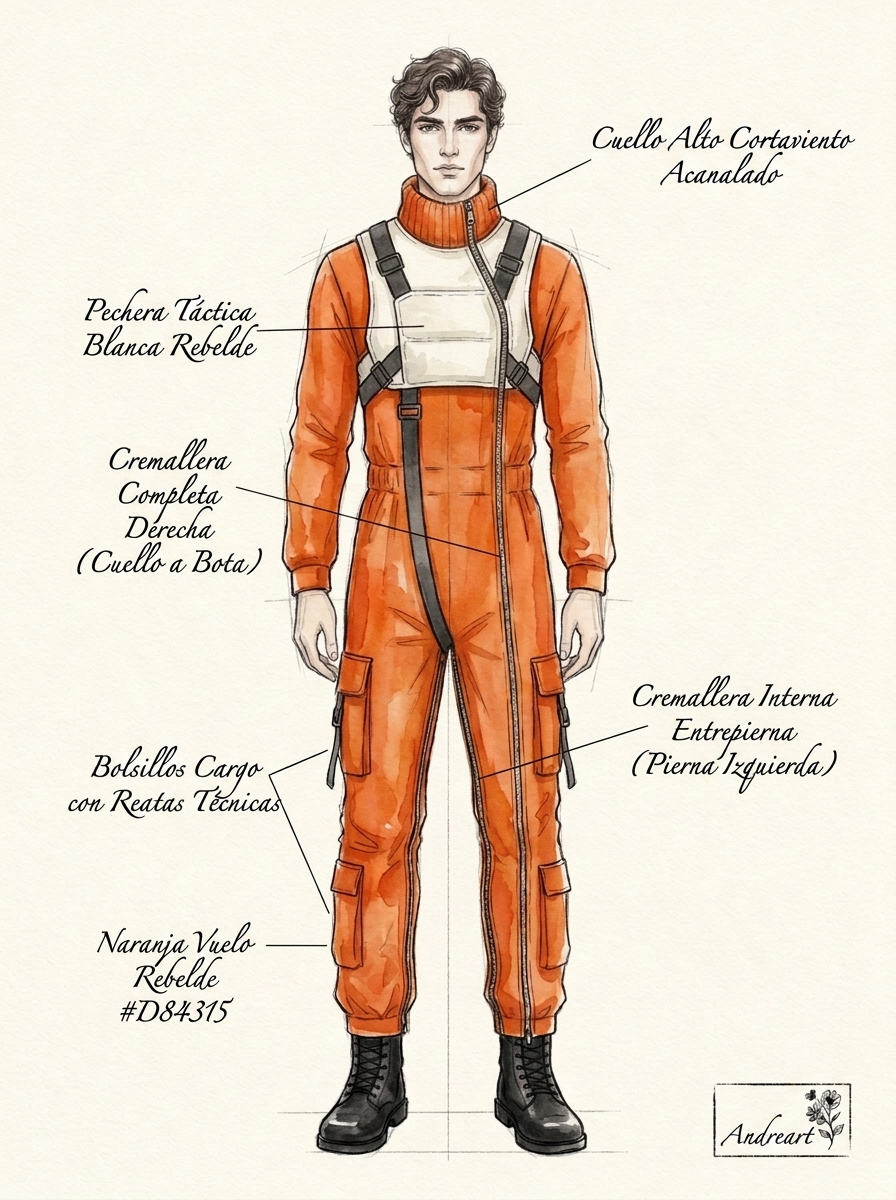
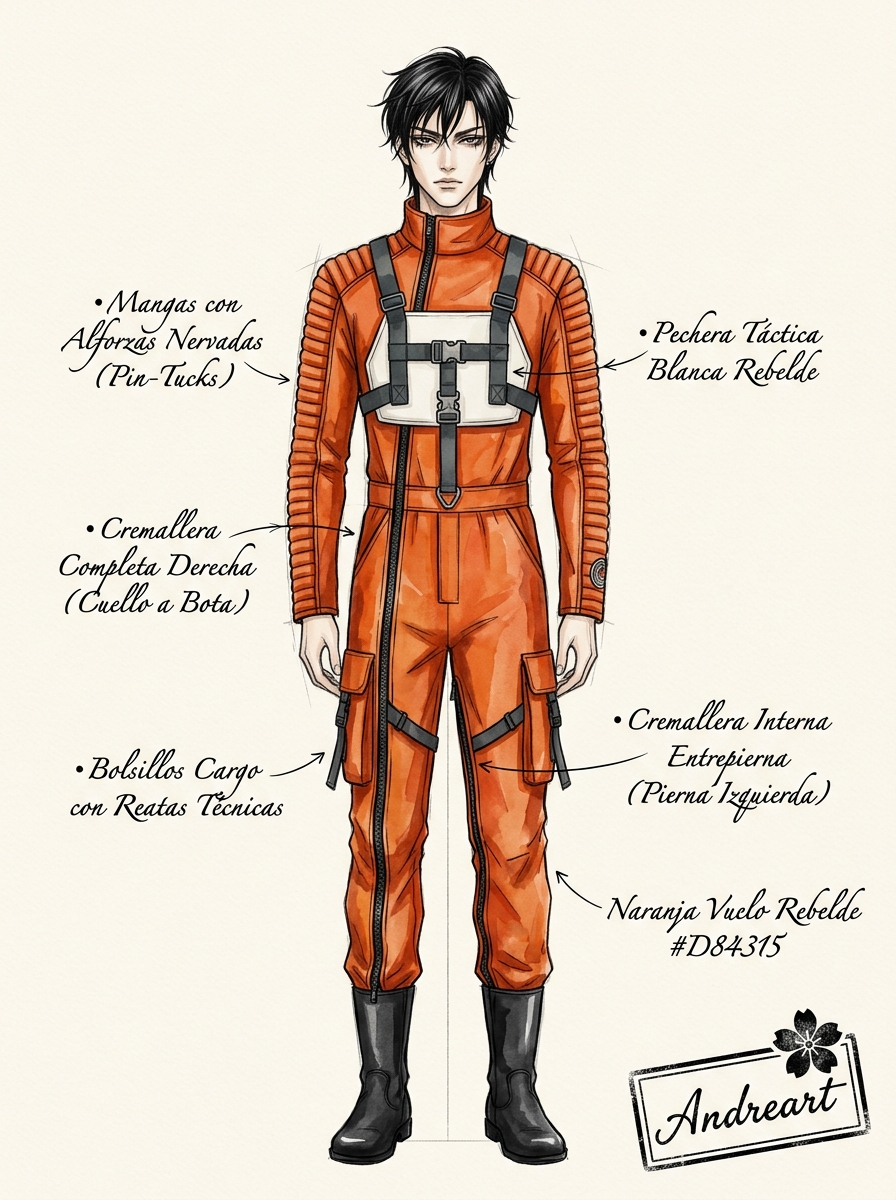
fix(over-rider-bosozoku): corregir figurin Rebel Pilot a estetica anime Paradise Kiss con alforzas en mangas y sello oficial
- Actualiza el figurin protagónico (05-figurin-rebel-pilot-frente.jpg) a estetica anime de alta costura al estilo Paradise Kiss (Ai Yazawa)
- Incorpora paneles de alforzas nervadas continuas (pin-tucks) en la cara exterior de ambas mangas basadas en refe-chaqueta-columbia-star-wars-alforzas.jpg
- Restituye el sello oficial autentico Andreart con marco doble y mon floral en la esquina inferior derecha
- Actualiza documentacion tecnica en SPEC.md, manifest.json e index.ts

diff --git a/Andreart Brain/01 Brand Context/Colecciones/Over-Rider Bosozoku/index.ts b/Andreart Brain/01 Brand Context/Colecciones/Over-Rider Bosozoku/index.ts
@@ -64,8 +64,8 @@ export const GARMENTS: CollectionGarment[] = [
     name: 'Enterizo Over-Rider Rebel Pilot',
     sku: 'ANDR-OVR-REB-01',
     category: 'Prenda Enteriza Exterior (Oversuit)',
-    textile: 'Cordura / Nylon Oxford 600D impermeable en Naranja Vuelo Rebelde (#D84315) con pechera táctica en lona blanca repelente (#F0EFEB) y forro térmico capitonado desmontable',
-    fit: 'Corte ergonómico precurvado para moto en naranja vuelo rebelde, pechera táctica blanca estructurada con arneses carbón, bolsillos cargo tácticos en muslos y espinillas con reatas de compresión, cremallera completa lateral derecha (cuello a bota), cremallera interna de entrepierna en pierna izquierda y drop-seat trasero'
+    textile: 'Cordura / Nylon Oxford 600D impermeable en Naranja Vuelo Rebelde (#D84315) con mangas en alforzas nervadas (pin-tucks), pechera táctica en lona blanca repelente (#F0EFEB) y forro térmico capitonado desmontable',
+    fit: 'Corte ergonómico precurvado para moto en naranja vuelo rebelde, mangas con alforzas acolchadas continuas, pechera táctica blanca estructurada con arneses carbón, bolsillos cargo tácticos en muslos y espinillas con reatas de compresión, cremallera completa lateral derecha (cuello a bota), cremallera interna de entrepierna en pierna izquierda y drop-seat trasero'
   }
 ];
 
@@ -133,6 +133,12 @@ export const ASSETS: Record<string, CollectionAsset> = {
 };
 
 export const REFERENCES: Record<string, CollectionReference> = {
+  'refe-chaqueta-columbia-star-wars-alforzas': {
+    filename: 'refe-chaqueta-columbia-star-wars-alforzas.jpg',
+    path: './references/refe-chaqueta-columbia-star-wars-alforzas.jpg',
+    type: 'sleeve-pintuck-reference',
+    description: 'Referencia de alforzas nervadas (pin-tucks / canalé acolchado continuo) a lo largo del exterior de las mangas en chaqueta de vuelo Star Wars x Columbia provista por el usuario.'
+  },
   'refe-piloto-rebelde-poe-dameron': {
     filename: 'refe-piloto-rebelde-poe-dameron.png',
     path: './references/refe-piloto-rebelde-poe-dameron.png',

diff --git a/Andreart Brain/01 Brand Context/Colecciones/Over-Rider Bosozoku/SPEC.md b/Andreart Brain/01 Brand Context/Colecciones/Over-Rider Bosozoku/SPEC.md
@@ -69,7 +69,7 @@ Diseñada para el motociclista contemporáneo que rechaza los uniformes genéric
 | :--- | :--- | :--- | :--- | :--- |
 | **Enterizo Over-Rider Toman Shodai** | `ANDR-OVR-TOM-01` | Manjirō Sano / Tokyo Revengers | Base Total Jet Black (#0D0D0E). Espalda: Kanjis oficiales Toman ("初代", "東京卍會", "天上天下唯我独尊") en serigrafía reflectiva. Mangas: "初代総長" vertical. | Cremallera completa lateral derecha (cuello a bota), cremallera interna de entrepierna en pierna izquierda, drop-seat trasero y forro térmico desmontable. |
 | **Enterizo Over-Rider The Capsules** | `ANDR-OVR-AKI-01` | Akira / Mitsuru Kuwata & Shotaro Kaneda | Base Rojo Escarlata Kaneda (#D01E29). Hombreras acolchadas acanaladas estilo Akira. Espalda: Gran emblema circular de la píldora bicolor con leyenda *"Good for health, Bad for education"*. | Cremallera completa lateral derecha (cuello a bota), cremallera interna de entrepierna en pierna izquierda, cuello motero con broches, drop-seat lumbar y forro térmico desmontable. |
-| **Enterizo Over-Rider Rebel Pilot** | `ANDR-OVR-REB-01` | Piloto Rebelde X-Wing (Star Wars / Poe Dameron & Luke Skywalker) | Base Naranja Vuelo Rebelde (#D84315), pechera táctica blanca estructurada (#F0EFEB) con arneses técnicos carbón, bolsillos cargo modulares en muslos y espinillas con reatas de ajuste. | Cremallera completa lateral derecha (cuello a bota), cremallera interna de entrepierna en pierna izquierda, cuello alto acanalado cortaviento, drop-seat trasero y forro térmico desmontable. |
+| **Enterizo Over-Rider Rebel Pilot** | `ANDR-OVR-REB-01` | Piloto Rebelde X-Wing (Star Wars / Poe Dameron & Luke Skywalker) | Base Naranja Vuelo Rebelde (#D84315), mangas con alforzas horizontales acolchadas en canalé continuo (pin-tucks), pechera táctica blanca estructurada (#F0EFEB) con arneses técnicos carbón, bolsillos cargo modulares en muslos y espinillas con reatas de ajuste. | Cremallera completa lateral derecha (cuello a bota), cremallera interna de entrepierna en pierna izquierda, cuello alto acanalado cortaviento, drop-seat trasero y forro térmico desmontable. |
 
 ---
 
@@ -138,6 +138,7 @@ Diseñada para el motociclista contemporáneo que rechaza los uniformes genéric
 
 | Archivo de Referencia | Descripción Técnica y Utilidad de Patronaje |
 | :--- | :--- |
+| `refe-chaqueta-columbia-star-wars-alforzas.jpg` | Referencia de alforzas nervadas (pin-tucks / canalé acolchado continuo) a lo largo del exterior de las mangas en chaqueta de vuelo Star Wars x Columbia provista por el usuario. |
 | `refe-piloto-rebelde-poe-dameron.png` | Referencia de indumentaria de vuelo de piloto de la Resistencia / Alianza Rebelde (Poe Dameron): traje de vuelo naranja, pechera táctica blanca, arneses pélvicos de seguridad y bolsillos cargo en perneras. |
 | `refe-kaneda-akira-suit.jpg` | Referencia oficial de Shotaro Kaneda (Akira): traje y chaqueta en rojo escarlata, hombreras acolchadas acanaladas y cuello motero con broches. |
 | `refe-apertura-paso-1.jpg` | Demostración de colocación rápida: apertura inicial envolvente sin descalzarse. |
